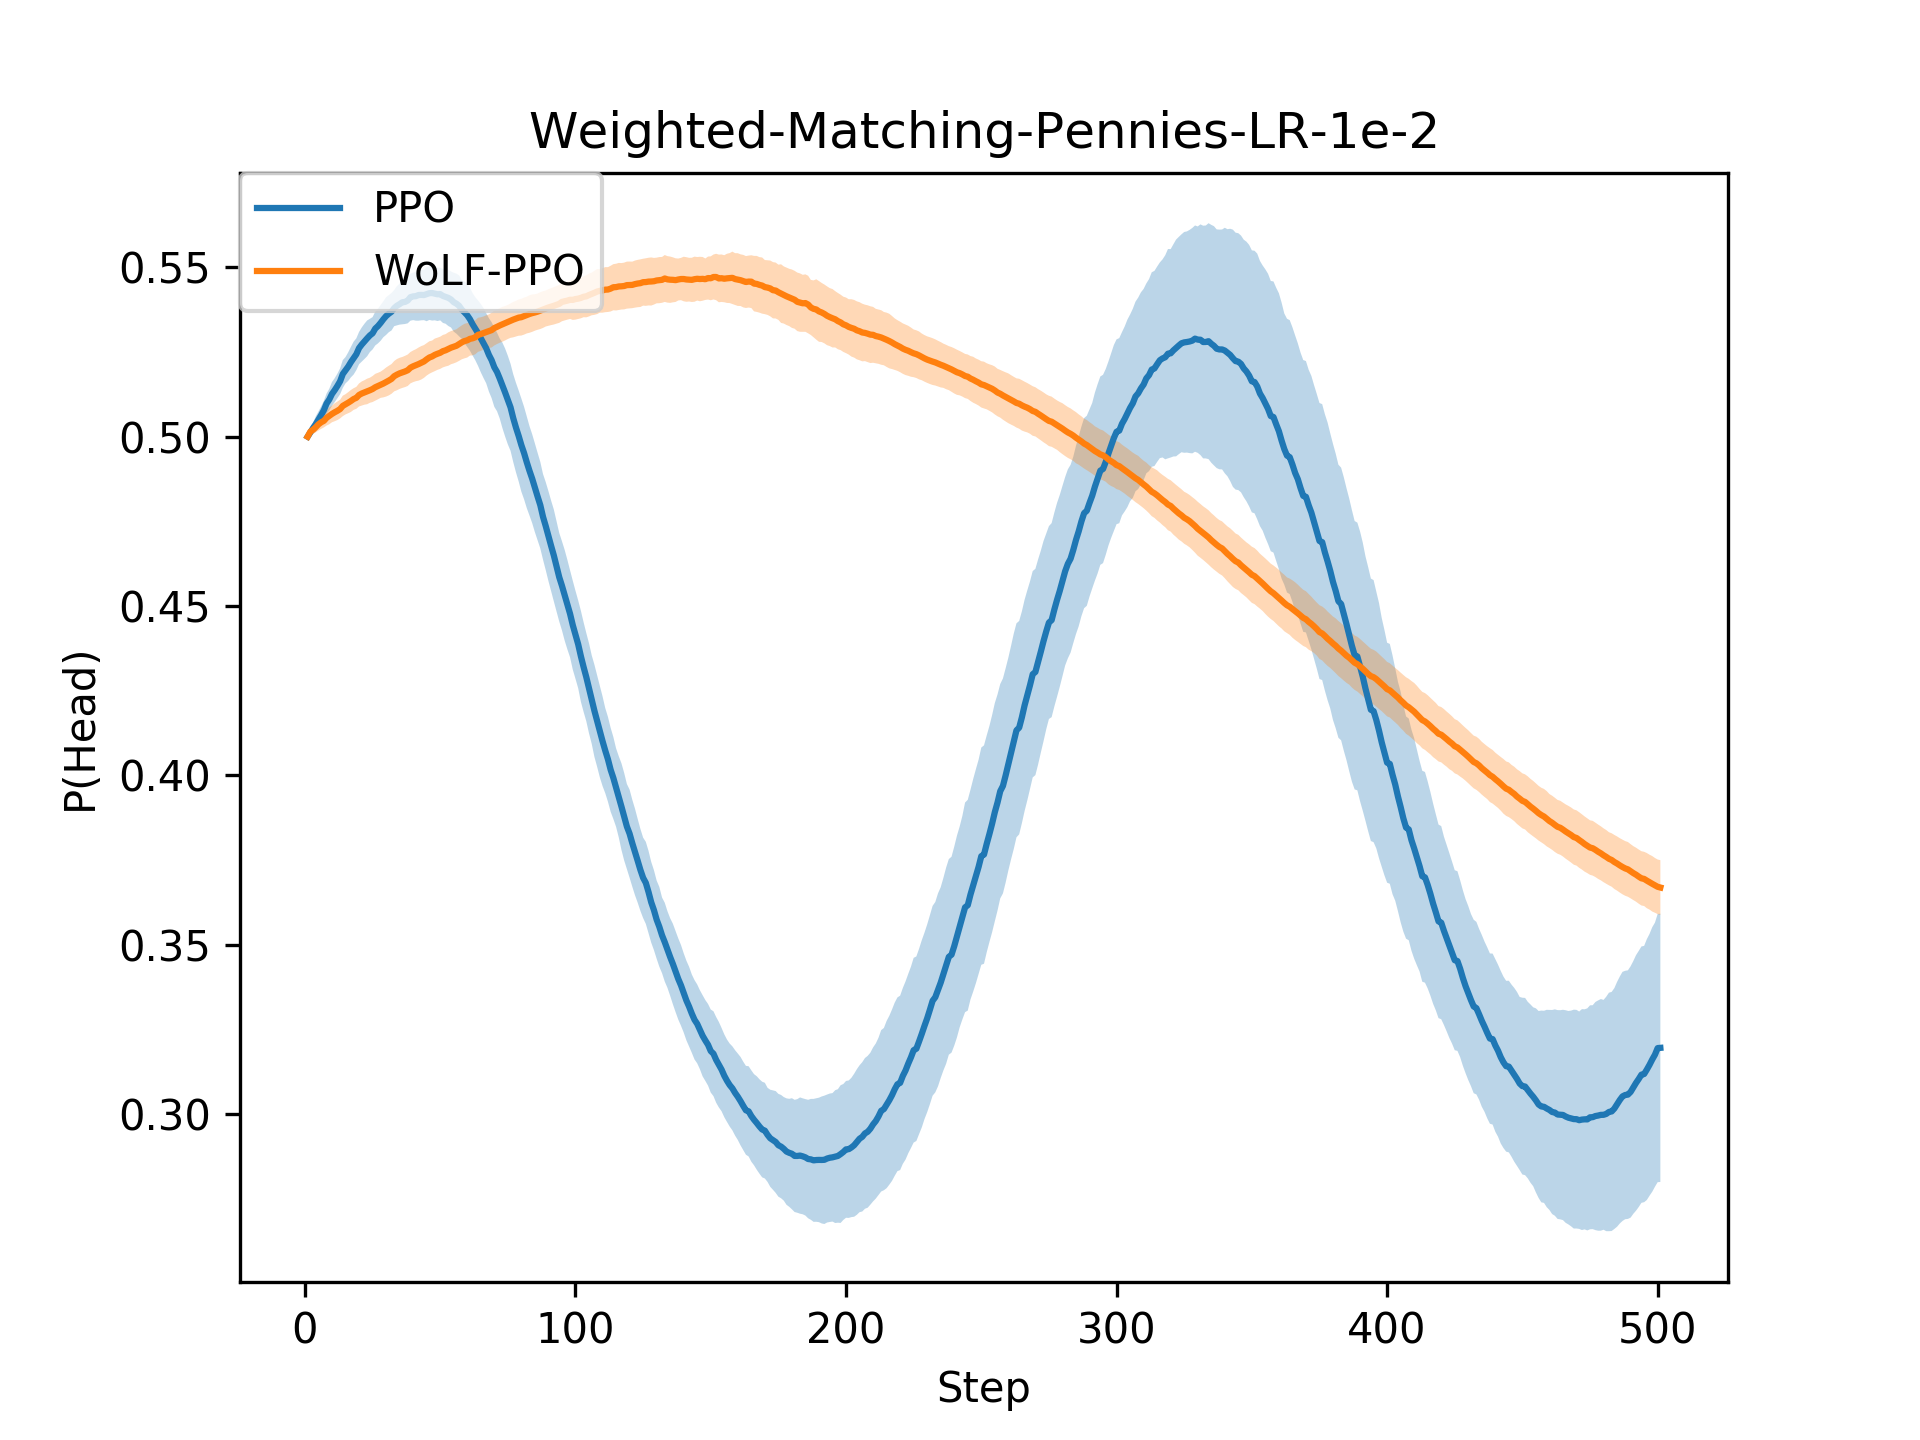
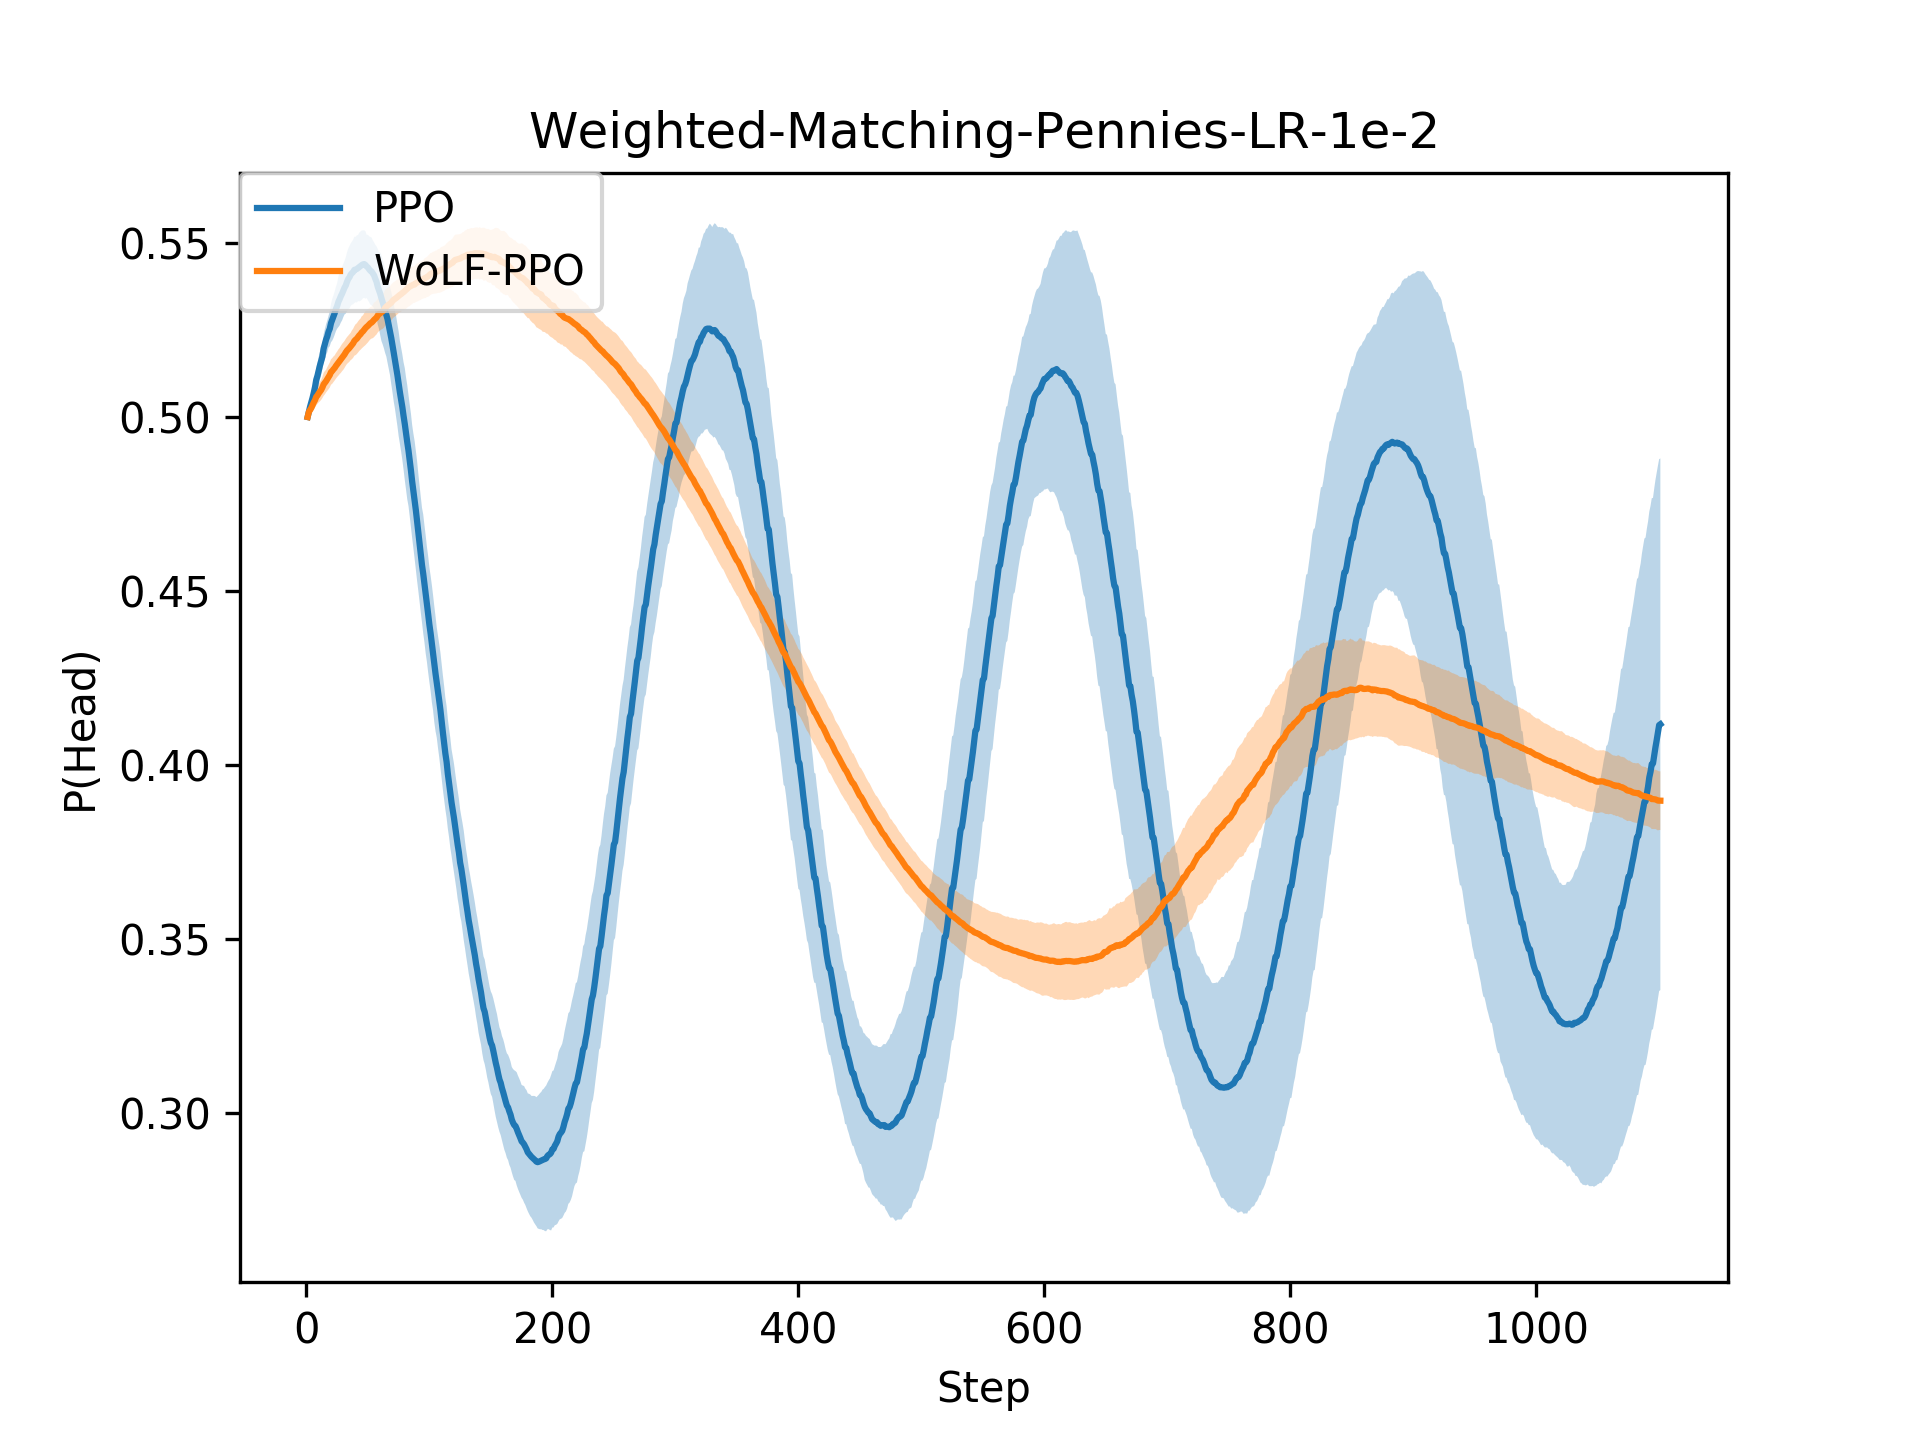
added couple of unfinished figures, added rps payoff matracies, small clean ups

diff --git a/cog.tex b/cog.tex
@@ -194,7 +194,23 @@ Proximal Policy Optimisation (PPO) is a policy based gradient method for deep re
 
 PPO is able to improve these shortcomings of TRPO by introducting clipped probability ratios that can be used as a lower bound estimate of the policy performance. This means that PPO only requires first-order optimisation, making PPO easier to implement and support noisy architectures and parameter sharing. 
 
-The objective function for PPO is sown in equation \TODO{equation}. \TODO{explain in detail the equation}. PPo has shown state of the art results on control tasks and better sample comlexity on the Atari environments.
+The objective function for PPO is shown in equation \ref{eq:ppo-objective}. 
+
+\begin{equation}
+    L_t^{CLIP+VF+S}(\theta) = \hat{\mathbb{E}}_t\big[L_t^{CLIP}(\theta)-c_1L_t^{VF}(\theta)+c_2S[\pi_{\theta}](S_t)\big]
+    \label{eq:ppo-objective}
+\end{equation}
+
+$c_1$ and $c_2$ are coefficients. $S$ is the max entropy bonus and $L_t^{VF} = (V_{\theta}(s_t)-V_t^{targ})^2$. Here we can see that PPO has a term in its objective function that rewards higher entropy strategies $c_2S[\pi_{\theta}]$, this is to aid in expoloration at the begining of training in order to prevent the agent from learning a overly deterministic policy before exploring the state space. 
+
+%\begin{equation}
+%    L^{CPI}(\theta) = \hat{\mathbb{E}}_t\Bigg[\frac{\pi_{\theta}(a_t | s_t)}{\pi_{\theta_{old}}(a_t | s_t)}\hat{A}_t\Bigg] = \hat{\mathbb{E}}_t\bigg[r_t(\theta)\hat{A}_t\bigg]
+%    \label{eq:trpo-objective}
+%\end{equation}
+
+\TODO{Explain clipping here? Not sure how much detail to go into, the fact it optimises max-etropy is the main takeaway about how PPO works for this paper? Should probably focus more detail here though and cut content else where}
+
+PPO has shown state of the art results on control tasks and better sample comlexity on the Atari environments.
 
 \subsection{Multi-Agent PPO}
 
@@ -239,19 +255,48 @@ Matching pennies is a game were both players pick a side of a coin, either heads
     \label{tab:weighted-mp}
 \end{table}
 
+
 \subsection{Rock Paper Scissors}
 
-Moving up form matching Pennies we used Rock Paper Scissors as our next environment. This game consists of three possible actions that form a cyclic winning pattern, as shown in Fig \TODO{put in fig}.
+Moving up form matching Pennies we used Rock Paper Scissors as our next environment. This game consists of three possible actions that form a cyclic winning pattern, as shown in Table \ref{tab:rps}.
+
+\begin{table}
+    \centering
+    \setlength{\extrarowheight}{2pt}
+    \begin{tabular}{*{5}{c|}}
+      \multicolumn{2}{c}{} & \multicolumn{2}{c}{Player $2$}\\\cline{3-5}
+      \multicolumn{1}{c}{} &  & $R$  & $P$ & $S$ \\\cline{2-5}
+      \multirow{2}*{Player $1$}  & $R$ & $(0,0)$ & $(-1,1)$ & $(1,-1)$ \\\cline{2-5}
+      & $P$ & $(1,-1)$ & $(0,0)$ & $(-1,1)$ \\\cline{2-5}
+      & $S$ & $(-1,1)$ & $(1,-1)$ & $(0,0)$ \\\cline{2-5}
+    \end{tabular}
+    \caption{Payoff matrix for standard Rock Paper Scissors, with a Nash of $P(Rock)=P(Papaer)=P(Scissors)=0.\dot{3}$.}
+    \label{tab:rps}
+\end{table}
 
 This environment is of interest because many complex commercial games will have multi-agent scenarios that mimic Rock Paper Scissors [ref]. We again present the standard version of Rock Paper Scissors and a weighted variant to move the Nash Equilibrium away from uniform random. The payoff matrices for these versions can be found in Fig \TODO{put in fig}.
 
+\begin{table}
+    \centering
+    \setlength{\extrarowheight}{2pt}
+    \begin{tabular}{*{5}{c|}}
+      \multicolumn{2}{c}{} & \multicolumn{2}{c}{Player $2$}\\\cline{3-5}
+      \multicolumn{1}{c}{} &  & $R$  & $P$ & $S$ \\\cline{2-5}
+      \multirow{2}*{Player $1$}  & $R$ & $(0,0)$ & $(-1,2)$ & $(1,-2)$ \\\cline{2-5}
+      & $P$ & $(2,-1)$ & $(0,0)$ & $(-1,1)$ \\\cline{2-5}
+      & $S$ & $(-2,1)$ & $(1,-1)$ & $(0,0)$ \\\cline{2-5}
+    \end{tabular}
+    \caption{Payoff matrix for weighted Rock Paper Scissors, with a Nash of $P(ROCK)=0.2$ and $P(PAPER)=0.4$.}
+    \label{tab:weighted-rps}
+\end{table}
+
 \section{Results}
+
+We now present our results on the two varients of the matrix games matching pennies and rock paper scissors. We focus on evaluating the distance of PPO and WoLF-PPO from the known Nash Equilibrium of these games. We also test the results of using large learning rates to identify any differences to robustness between the agents.
 
 \subsection{Matching Pennies}
 
-The results of our experiments on matching pennies provided insight on the ability for PPO and WoLF-PPO to learn the Nash Equilibrium in self play.
-
-Starting with PPO and WoLF-PPO on the standard weighting of matching pennies we can see that both agents stay close to the Nash equilibrium as shown in Fig \ref{fig:mp-ppo-e2}. You can see that the variance for PPO is still within $0.04$ of the Nash equilibrium. In this setting we see that WoLF-PPO does indeed have lower variance than PPO but not by a large margin.
+Starting with PPO and WoLF-PPO on the standard weighting of matching pennies we can see that both agents stay close to the Nash equilibrium as shown in Fig \ref{fig:mp-ppo-e2}. You can see that the variance for PPO is still within $0.05$ of the Nash equilibrium. In this setting we see that WoLF-PPO does indeed have lower variance than PPO but not by a large margin.
 
 \begin{figure}
     \centering
@@ -269,13 +314,13 @@ When the learning rate is increased by an order of magnitude as in Fig \ref{fig:
     \label{fig:mp-ppo-e1}
 \end{figure}
 
-The results for weighted matching pennies demonstrate this by shifting the Nash equilibrium away from the max entropy strategy. In Fig \ref{fig:weighted-mp-ppo-e4} we can see that PPO now wildly diverges away from the Nash equilibrium strategy, with the variance being larger than when dealing with the non weighted matching pennies. We also see that WoLF-PPO outperforms PPO by a larger amount in this environment, showing the benefit of WoLF-PPO in environments without the Nash equilibrium lying on the max entropy strategy.
+We demonstrate this phenomenon by using the weighted variant of Matching Pennies to push the Nash Equilibrium away from the max entorpy policy. In Fig \ref{fig:weighted-mp-ppo-e2} we can see that PPO now wildly diverges away from the Nash equilibrium strategy, with the variance being larger than when dealing with the non weighted matching pennies. We also see that WoLF-PPO outperforms PPO by a larger amount in this environment, showing the benefit of WoLF-PPO in environments without the Nash equilibrium lying on the max entropy strategy.
 
 \begin{figure}
     \centering
-    \includegraphics[width=20em]{Figures/weighted-mp-ppo-e4.png}
+    \includegraphics[width=20em]{Figures/weighted-matching-pennies-lr-1e-2.png}
     \caption{With a reasonable learning rate of 2.5e-4 on the weighted variant of matching pennies we see that WoLF-PPO now greatly out performs PPO.}
-    \label{fig:weighted-mp-ppo-e4}
+    \label{fig:weighted-mp-ppo-e2}
 \end{figure}
 
 \subsection{Rock Paper Scissors}
@@ -314,11 +359,11 @@ We then ran PPO and WoLF-PPO on a weighted version of Rock Paper Scissors. This 
 
 \section{Conclusion}
 
-Connection with IPD - hysteretic agents ... questions around assessing "winning" or "losing" in more general games
+% Connection with IPD - hysteretic agents ... questions around assessing "winning" or "losing" in more general games
 
-In this paper we wanted to investigate if WoLF can be extended to Deep Reinforcment learning. We did this by comparing PPO to WoLF-PPO and evaluating the differences when learning the traditional game theory games Matching Pennies and Rock Paper Scissors. We alos created variants of these games in order to shift the Nash off the max-entropy policy.
+In this paper we wanted to investigate if WoLF can be extended to Deep Reinforcment learning. We did this by comparing PPO to WoLF-PPO and evaluating the differences when learning the traditional game theory games Matching Pennies and Rock Paper Scissors. We also created variants of these games in order to shift the Nash off the max-entropy policy.
 
-In our experiments we showed that the performance of PPO in both standard MP and RPS is better than originally expected. We believe this is due to the fact that thte Nash equilibrium for these games lies on the max-entropy policy. PPO contains a max-entropy term in its objective function, this PPO has tan unfair advantage in these specific environments dut to the Nash equilibrium being directly optimised by the max-entropy term in the objective function. When training on variants of MP and RPS to shift the Nash Equilibrium off the max-entropy policy we observe that WoLF now provides a much greater advantage over traditional PPO as the agent now learns a policy much closer to the nash equilibrium. We also observed that WoLF-PPO is more robust than PPO when dealing with large learning rates.
+In our experiments we showed that the performance of PPO in both standard MP and RPS is better than originally expected. We believe this is due to the fact that the Nash equilibrium for these games lies on the max-entropy policy. PPO contains a max-entropy term in its objective function, this means that PPO has an unfair advantage in these specific environments due to the Nash equilibrium being directly optimised by the max-entropy term in the objective function. When training on variants of MP and RPS to shift the Nash Equilibrium off the max-entropy policy we observe that WoLF now provides a much greater advantage over traditional PPO as the agent now learns a policy much closer to the nash equilibrium. We also observed that WoLF-PPO is more robust than PPO when dealing with large learning rates.
 
 In this work we have demonstrated that the WoLF approach can be extended to Deep RL while providing benefits when learning in multi-agent environments, getting closer to the nash equilibrium. We would like to expand this to extensive form games in the future, specifically the Soccer environment. We would then like to expand beyond what is possible with tabular RL in order to demonstrate both the advantages of WoLF and Deep RL by training on raw pixel data.
 
